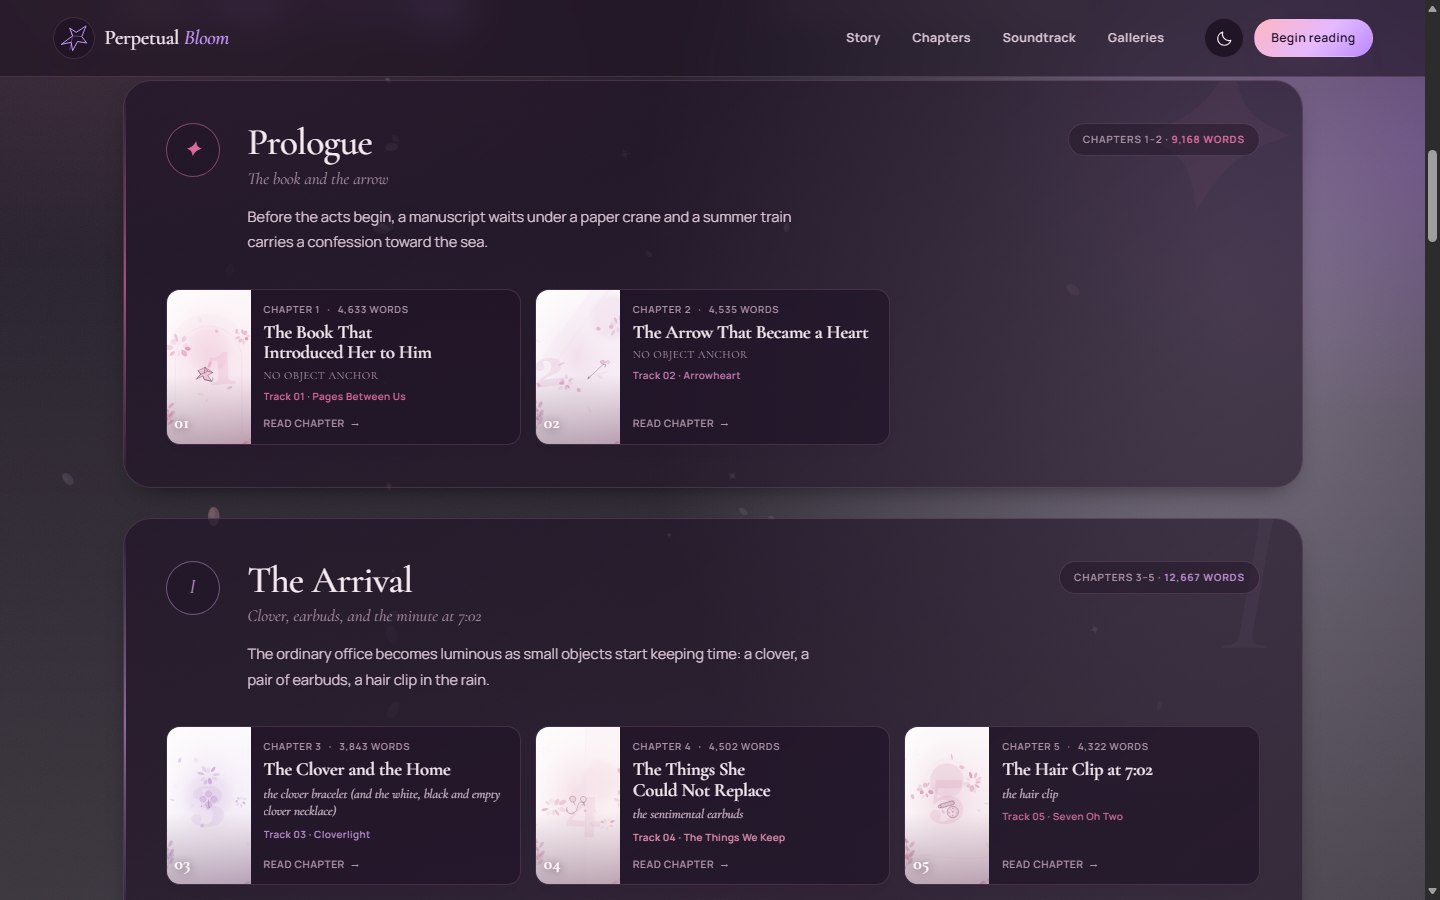
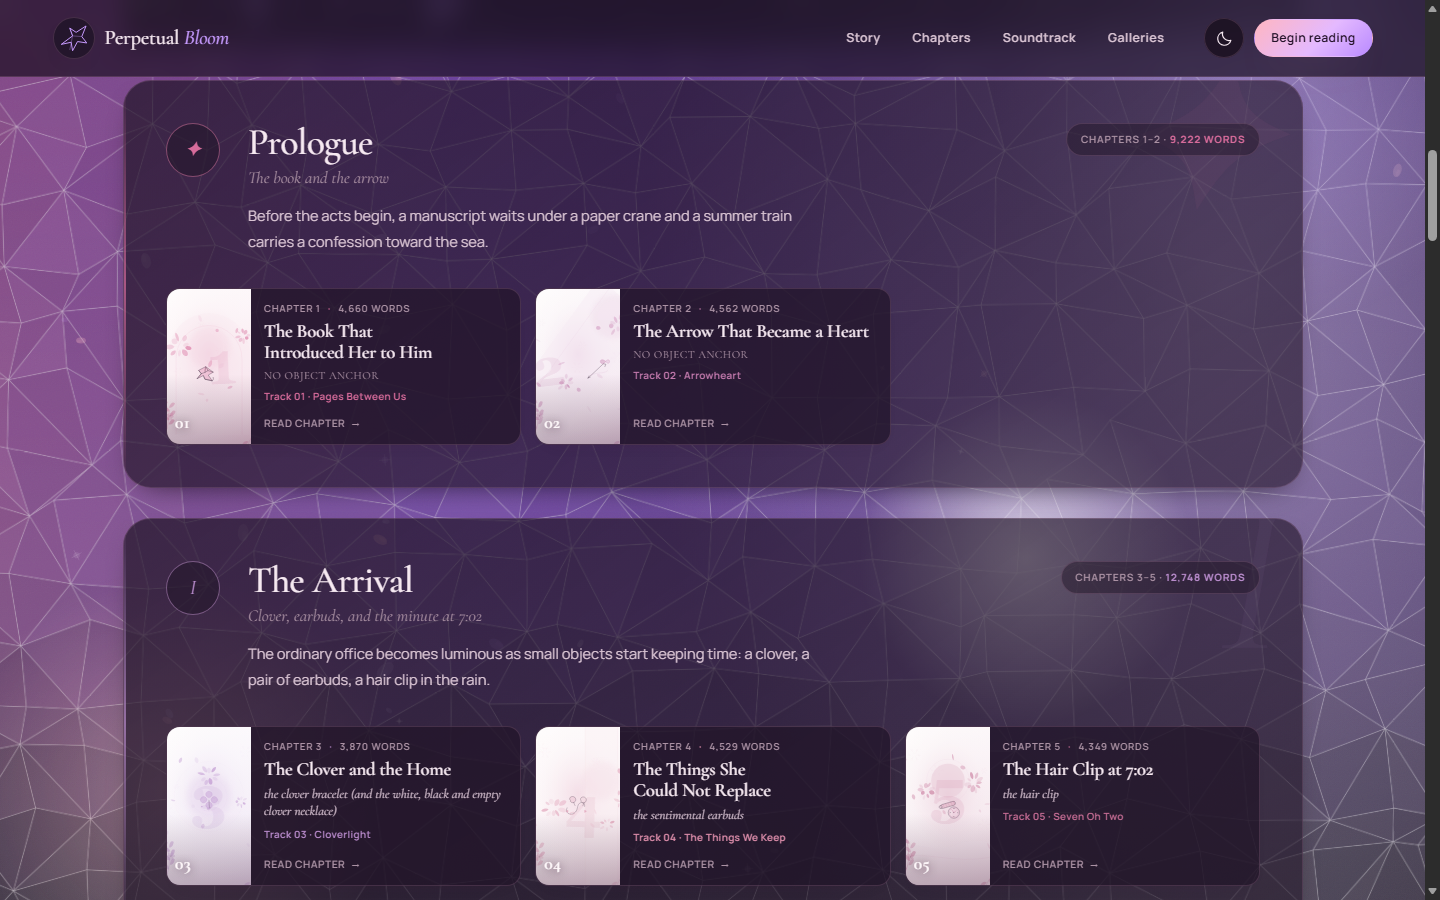
fix: contain section-head scrim bleed at 390px
- base.css: overflow-x: clip on .section-head so its ::before scrim (-36px bleed) no longer widens body.scrollWidth at 390px.

- reader.css: hide the in-flow (fully art-occluded) cover bookend at short viewports; it tripped the cover overflow assert at 1000x700.

- qa-cover.mjs: sleep 260ms after the final viewport reset so the debounced reader resize settles before waitForCover (harness race).

- Refresh qa/cover screenshots (drawer-words added).

diff --git a/assets/css/base.css b/assets/css/base.css
@@ -473,6 +473,7 @@ html[data-theme="dark"] .theme-icon--moon {
 
 .section-head {
   position: relative;
+  overflow-x: clip;
   display: grid;
   grid-template-columns: minmax(0, 1.05fr) minmax(0, 0.95fr);
   gap: clamp(24px, 5vw, 76px);

diff --git a/assets/css/reader.css b/assets/css/reader.css
@@ -1573,6 +1573,10 @@ html[data-theme="dark"] .reader-page--blank {
     display: none;
   }
 
+  .reader-page--cover .bookend {
+    display: none;
+  }
+
   .reader-controls__hint {
     display: none;
   }
